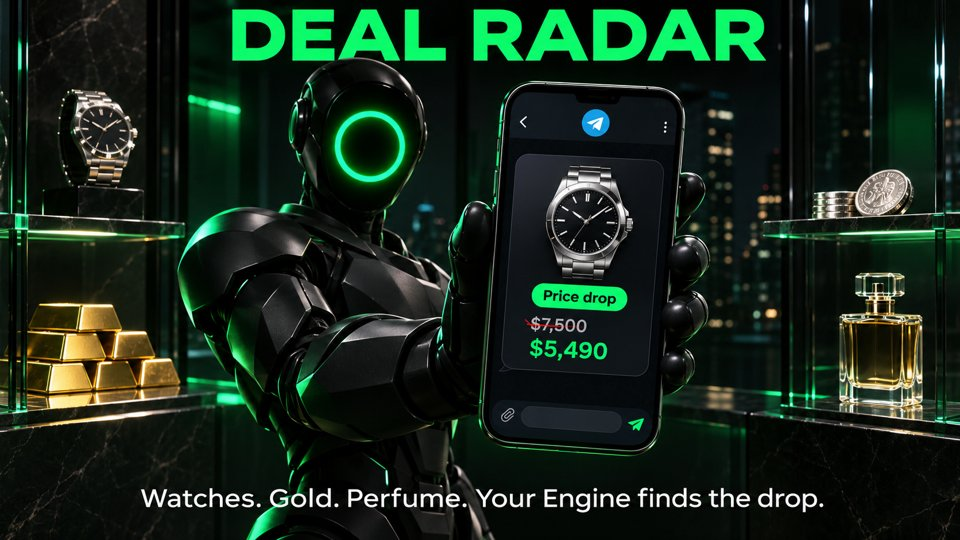
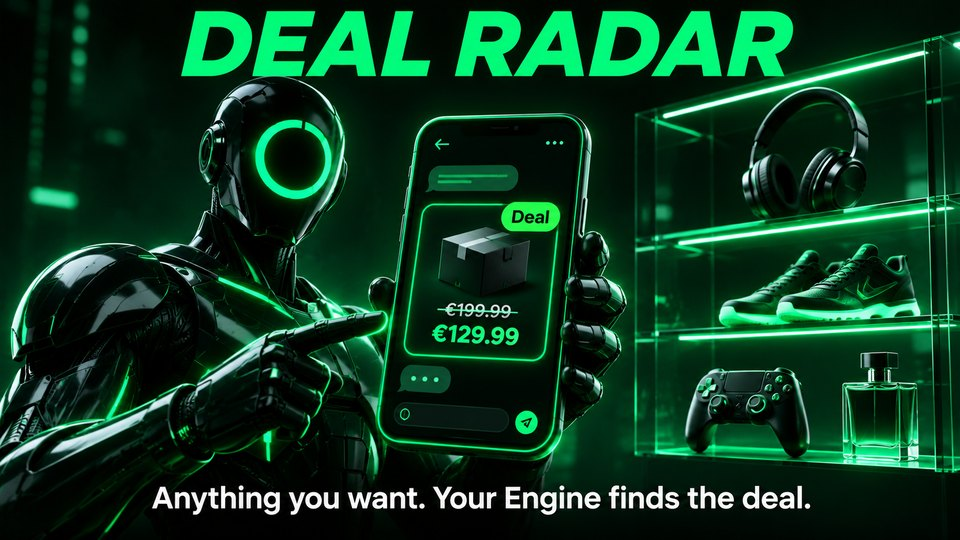
Add files via upload

diff --git a/index.html b/index.html
@@ -3604,7 +3604,9 @@ const YE_DO=[
  {k:'protect',t:'Protect your wallet',was:'Finding out about a drain when it is too late.',now:'Wallet Guard flags risky approvals before they get used. If a wallet still gets drained, a drain report shows where the money went, with proof and what to do now.',v:'protect'},
  {k:'trade',t:'Trade by talking',was:'Copy the contract, open a DEX, set the slippage, hope you picked the right chain.',now:'Send a voice note: "buy 5 dollars of this". Your Engine finds the chain, gets a live quote and shows what you get. You confirm in your own wallet, it never holds your keys.',v:'voice'},
  {k:'life',t:'A promo video in one tap',was:'Paying an editor or begging the community for a video.',now:'Paste a coin and tap Promo video by loudscene. It reads the project, writes the story and drops a finished 1080p video into your chat, with live progress while it works.',v:'promo'},
- {k:'deals',feat:'deals',t:'Deals without the hunt',was:'Refreshing shop pages and price trackers to catch a drop.',now:'Ask for a deal on anything and Your Engine checks the deal community of your country: price, shop, what the community thinks of it, and the link. Set a target price and it pings you when a deal hits it.',img:'deals'},
+ {k:'portfolio',t:'All your wallets, one view',was:'Five wallets, three chains, and a spreadsheet to know where you stand.',now:'Tell Your Engine which wallets are yours. You see every wallet on its own and one combined view per coin, with what you paid and your profit or loss. Read only, it never needs your keys.',img:'portfolio',still:1},
+ {k:'markets',t:'Stocks never sleep',was:'Waiting for Monday to see what your stocks did over the weekend.',now:'TSLA, NVDA, AAPL and more trade as tokens on Robinhood Chain around the clock. Ask for the price, the biggest movers, how far a token is from the last close, or set an alert in percent.',img:'stocks',still:1},
+ {k:'deals',feat:'deals',still:1,t:'Deals without the hunt',now:'Ask for a deal on anything and Your Engine checks the deal community of your country: price, shop, what the community thinks of it, and the link. Set a target price and it pings you when a deal hits it.',img:'deals'},
  {k:'lock',feat:'locker',t:'Lock it, prove it',was:'"Dev will never sell", and nobody can check it.',now:'Lock your tokens or set up vesting on Robinhood Chain. Nobody can move them early, not even us. Every scan of your coin shows the lock. Pay the fee in $ODDS and it gets burned.',img:'lock',href:'/lock/',cta:'Open the Locker'},
  {k:'check',t:'Check any coin',was:'Ten tabs, three explorers, and still guessing.',now:'Paste a coin and get bundles, snipers, the dev wallet and the top holders in one card, plus a live report with chart and holder map.',v:'check'},
  {k:'check',t:'Follow the money',was:'Clicking through a block explorer for hours.',now:'Paste a wallet and ask where the money went: swaps, bridges, exchanges, every step with the transaction as proof.',v:'trace'},
@@ -3616,7 +3618,7 @@ function yeDo(){
   const card=x=>{
     const f=yeMob()?'m':'w';
     const media=x.v?`<video class="ye-v" muted loop playsinline preload="none" poster="v/${x.v}-${f}.jpg" data-v="${x.v}"></video><button class="ye-play" data-yev="${x.v}" aria-label="Watch with sound">▶ Watch with sound</button>`
-      :`<img src="v/${x.img}-${f}.jpg" alt="" loading="lazy">${x.href?'':'<span class="ye-soon">Video soon</span>'}`;
+      :`<img src="v/${x.img}-${f}.jpg" alt="" loading="lazy">${x.href||x.still?'':'<span class="ye-soon">Video soon</span>'}`;
     return `<div class="card ye-c rv"><div class="ye-media">${media}</div><h3>${E(x.t)}</h3>
       <div class="ye-bn"><p class="was"><span>Before</span> ${E(x.was)}</p><p class="now"><span>Now</span> ${E(x.now)}</p></div>
       <div class="ye-act">${x.href?`<a class="btn btn-g btn-sm" href="${E(x.href)}">${E(x.cta||'Open')}</a>`:`<a class="btn btn-g btn-sm" href="https://t.me/${E(YE_BOT)}?start=m_${x.k}" target="_blank" rel="noopener">Try it in Telegram</a>`}</div></div>`;};
